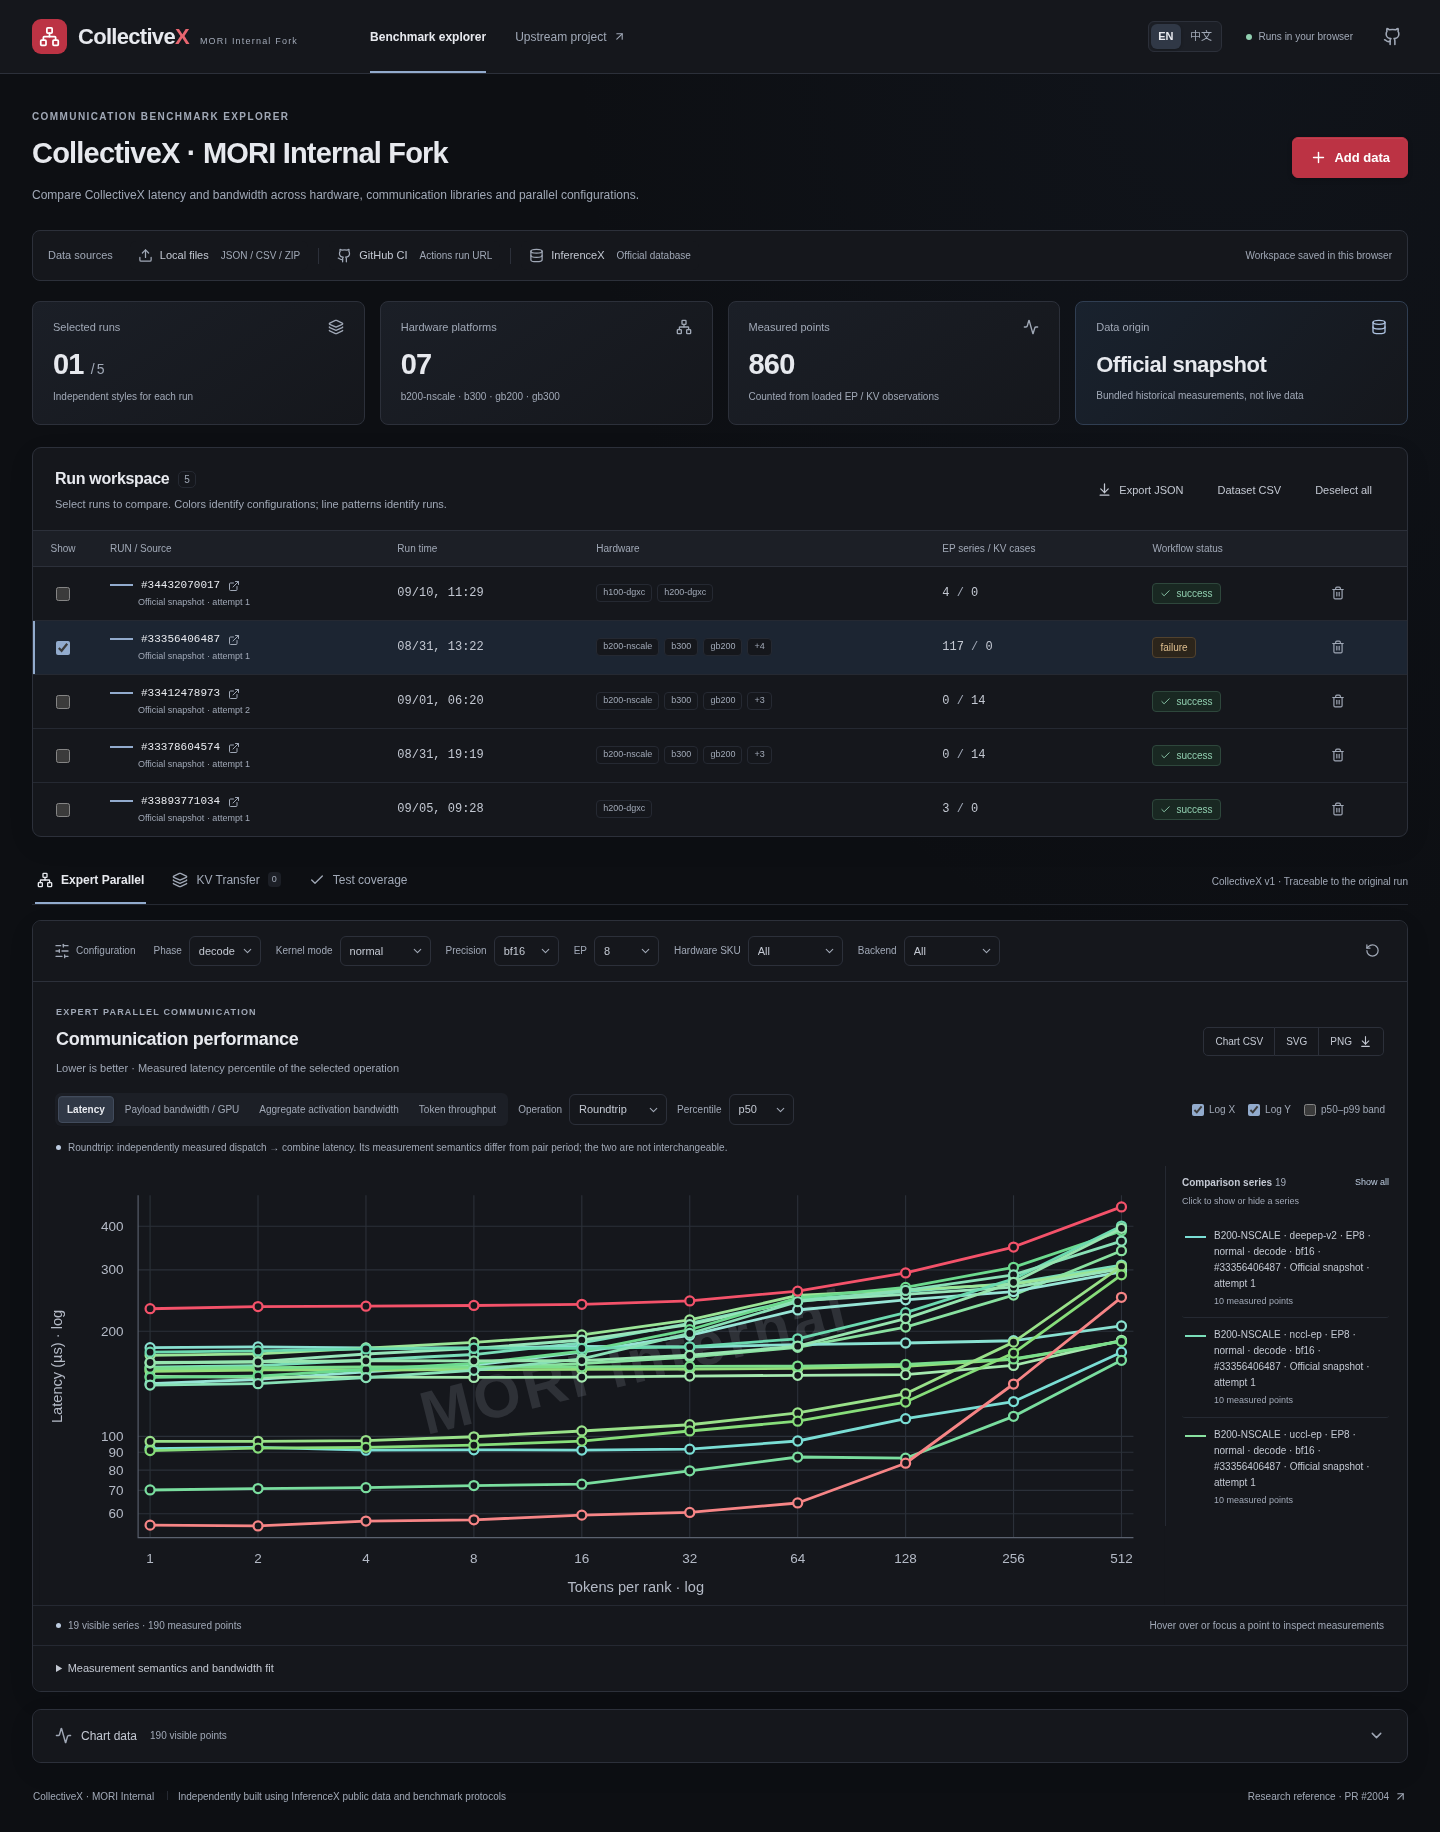
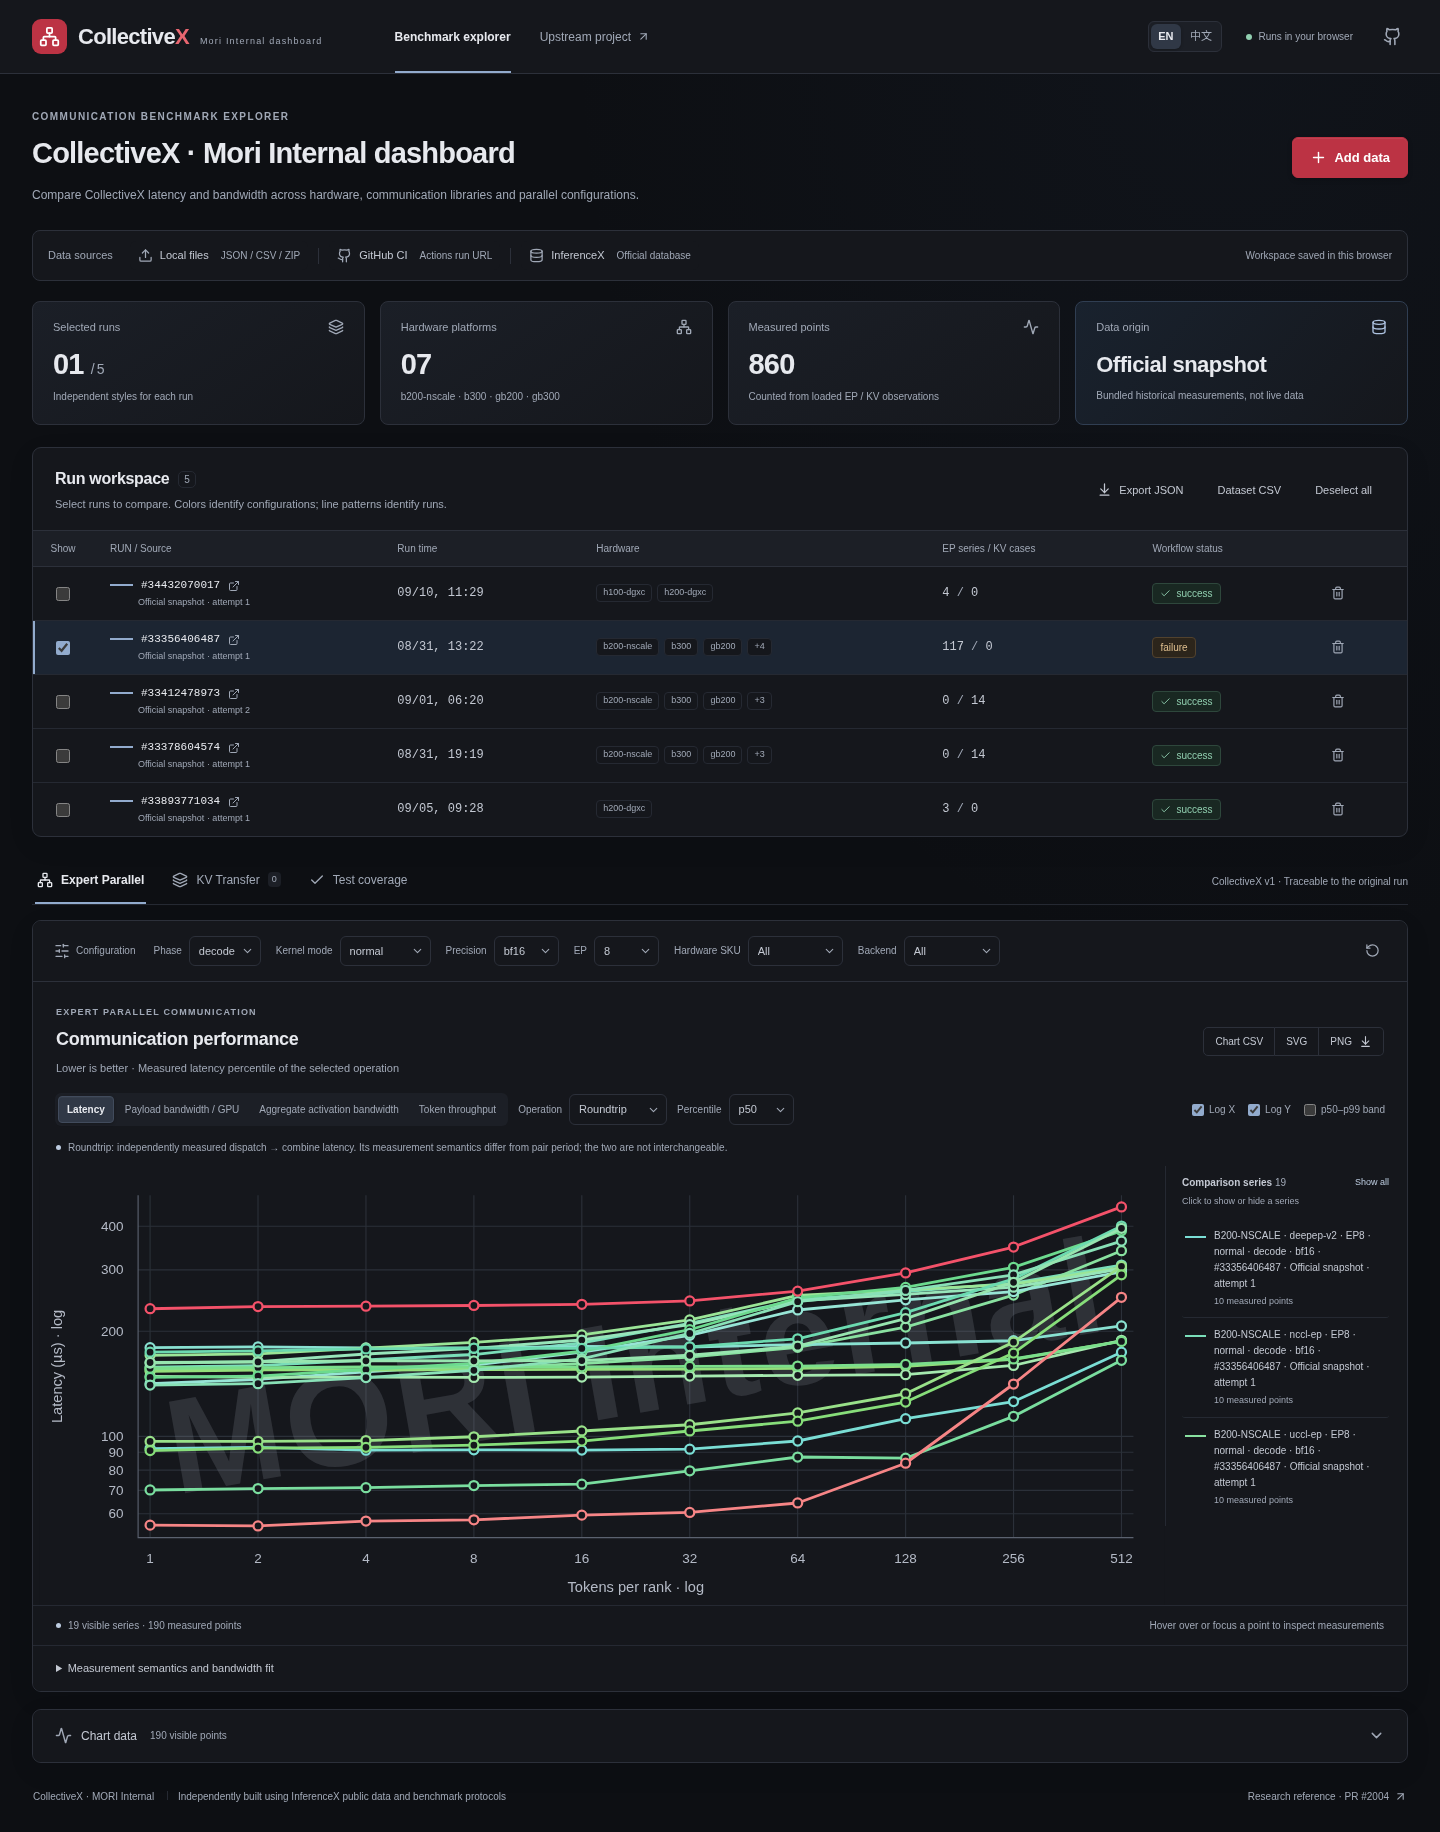
Enlarge the chart watermark and update the dashboard title
中文：MORI Internal 水印扩大至接近整个绘图区，页面、浏览器与 README 标题统一为 CollectiveX · Mori Internal dashboard。验证：64 项单元测试、14 项浏览器测试、生产构建和水印边界检查通过。

Changed region(s): [[0.125, 0.6845, 0.7812, 0.809], [0.1562, 0.0622, 0.3438, 0.0933], [0.3125, 0.0, 0.3438, 0.0311]]

diff --git a/src/App.tsx b/src/App.tsx
@@ -30,7 +30,11 @@ import type {
   Series,
 } from "./model";
 import { METRICS, OPERATIONS } from "./model";
-import { INTERNAL_FORK_TITLE, INTERNAL_WATERMARK } from "./branding";
+import {
+  DASHBOARD_TITLE,
+  INTERNAL_EDITION,
+  INTERNAL_WATERMARK,
+} from "./branding";
 import {
   PerformanceChart,
   chartColor,
@@ -470,7 +474,7 @@ export default function App() {
           </span>
           <span>
             Collective<span className="brand-x">X</span>
-            <small>{INTERNAL_WATERMARK} Fork</small>
+            <small>{INTERNAL_EDITION}</small>
           </span>
         </a>
         <nav className="header-nav">
@@ -505,7 +509,7 @@ export default function App() {
         <div className="page-heading">
           <div>
             <p className="eyebrow">COMMUNICATION BENCHMARK EXPLORER</p>
-            <h1>{t(INTERNAL_FORK_TITLE)}</h1>
+            <h1>{t(DASHBOARD_TITLE)}</h1>
             <p className="subtitle">
               {t(
                 "对比 CollectiveX 延迟与带宽，探索不同硬件、通信库和并行配置的性能边界。",

diff --git a/src/i18n.ts b/src/i18n.ts
@@ -234,7 +234,8 @@ export const ENGLISH: Record<string, string> = {
   "Burst 延迟 p50（ms）": "Burst latency p50 (ms)",
   "每个 ISL 的最高带宽（GB/s）": "Best bandwidth at each ISL (GB/s)",
   "带宽 / batch-1 带宽（倍）": "Bandwidth / batch-1 bandwidth (×)",
-  "CollectiveX · MORI 内部 Fork": "CollectiveX · MORI Internal Fork",
+  "CollectiveX · Mori Internal dashboard":
+    "CollectiveX · Mori Internal dashboard",
   "MORI 内部 fork 的 CollectiveX 通信性能实验台。导入 InferenceX、GitHub Actions 和本地数据，对比 GPU 通信延迟与带宽。":
     "MORI internal fork of the CollectiveX communication benchmark explorer. Import InferenceX, GitHub Actions and local data to compare GPU communication latency and bandwidth.",
   "显示 {origin} {run}": "Show {origin} {run}",

diff --git a/src/chart.tsx b/src/chart.tsx
@@ -233,13 +233,15 @@ export function PerformanceChart({
           className="chart-watermark"
           x={(MARGIN.left + RIGHT) / 2}
           y={(MARGIN.top + BOTTOM) / 2}
-          transform={`rotate(-14 ${(MARGIN.left + RIGHT) / 2} ${(MARGIN.top + BOTTOM) / 2})`}
+          transform={`rotate(-10 ${(MARGIN.left + RIGHT) / 2} ${(MARGIN.top + BOTTOM) / 2})`}
           textAnchor="middle"
-          dominantBaseline="middle"
+          dominantBaseline="central"
           fill={CHART_THEME.text}
           fillOpacity="0.16"
           fontFamily="Arial, sans-serif"
-          fontSize="54"
+          fontSize="120"
+          textLength={RIGHT - MARGIN.left - 40}
+          lengthAdjust="spacingAndGlyphs"
           fontWeight="700"
           letterSpacing="3"
           pointerEvents="none"

diff --git a/src/i18n-react.tsx b/src/i18n-react.tsx
@@ -16,7 +16,7 @@ import {
   type TranslationParams,
 } from "./i18n";
 
-import { INTERNAL_FORK_TITLE } from "./branding";
+import { DASHBOARD_TITLE } from "./branding";
 
 const LanguageContext = createContext({
   language: "en" as Language,
@@ -26,7 +26,7 @@ export function LanguageProvider({ children }: { children: ReactNode }) {
   const [language, setLanguage] = useState<Language>(readLanguage);
   useEffect(() => {
     document.documentElement.lang = language === "en" ? "en" : "zh-CN";
-    document.title = translate(INTERNAL_FORK_TITLE, language);
+    document.title = translate(DASHBOARD_TITLE, language);
     document
       .querySelector('meta[name="description"]')
       ?.setAttribute(

diff --git a/index.html b/index.html
@@ -8,7 +8,7 @@
       name="description"
       content="MORI internal fork of the CollectiveX communication benchmark explorer. Import InferenceX, GitHub Actions and local data to compare GPU communication latency and bandwidth."
     />
-    <title>CollectiveX · MORI Internal Fork</title>
+    <title>CollectiveX · Mori Internal dashboard</title>
     <link rel="icon" type="image/svg+xml" href="./favicon.svg" />
   </head>
   <body>

diff --git a/src/branding.ts b/src/branding.ts
@@ -1,3 +1,4 @@
 /** Keep the image watermark verbatim in every locale. */
 export const INTERNAL_WATERMARK = "MORI Internal";
-export const INTERNAL_FORK_TITLE = "CollectiveX · MORI Internal Fork";
+export const INTERNAL_EDITION = "Mori Internal dashboard";
+export const DASHBOARD_TITLE = `CollectiveX · ${INTERNAL_EDITION}`;

diff --git a/docs/verification.md b/docs/verification.md
@@ -52,3 +52,8 @@
 ## 内部 Fork 标识与图片水印
 
 2026-09-11：页面标题、浏览器标题与 README 标明 MORI 内部 fork；图表使用原生 SVG 文本绘制固定英文 `MORI Internal` 水印，置于数据曲线下层且不截获鼠标事件。SVG/PNG 导出包含同一水印。新增浏览器验证对比实际 PNG、带水印 SVG 和移除水印后的 SVG，检查水印区域的像素差异，避免仅验证网页文字存在。原有 13 项浏览器用例与新增水印用例通过，单元测试仍为 64 项；桌面和 390px 窄屏实测正常。临时预览服务在检查结束后关闭。
+
+
+## 加大水印与标题调整
+
+2026-09-11：标题统一为用户指定的 `CollectiveX · Mori Internal dashboard`，中英文界面保留同一产品名称。水印字体从 54 增至 120，沿接近整条绘图对角线展开；实际边界宽度约 854 / 884（96.7%），且全部处于绘图区内，未侵入坐标轴。SVG/PNG 像素验证继续通过，完整 64 项单元测试、14 项浏览器测试及构建通过；390px 页面没有横向溢出。README 仍不嵌入图片，测试预览服务已关闭。

diff --git a/AGENTS.md b/AGENTS.md
@@ -14,7 +14,7 @@ This is a frontend-only Vite + React + TypeScript application. Do not introduce 
 - `src/SourcesPanel.tsx`, `src/sources.ts`: import controls, official API calls, GitHub run/artifact selection, and network errors.
 - `src/model.ts`, `src/importers.ts`, `src/export.ts`: normalized data contracts, file parsing, and round-trip Dataset CSV.
 - `src/metrics.ts`, `src/chart.tsx`: metric calculations, KV comparisons, SVG rendering, and image export.
-- `src/branding.ts`: internal-fork identity. Keep the `MORI Internal` watermark embedded in chart SVGs and PNG exports; do not translate the watermark.
+- `src/branding.ts`: dashboard identity. Keep the exact title `CollectiveX · Mori Internal dashboard` in both locales, and the `MORI Internal` watermark embedded in chart SVGs and PNG exports; do not translate the watermark.
 - `src/i18n.ts`, `src/i18n-react.tsx`: translation catalog, localized diagnostics, and language preferences.
 - `src/styles.css`, `src/theme.ts`: semantic UI colors and concrete SVG/PNG colors. Keep both aligned with the AMD-inspired dark theme.
 - `src/storage.ts`: IndexedDB workspace persistence.

diff --git a/README.md b/README.md
@@ -1,4 +1,4 @@
-# CollectiveX Dashboard — MORI Internal Fork
+# CollectiveX · Mori Internal dashboard
 
 [**Open the dashboard**](https://duyi-wang.github.io/CollectiveXDashboard/) · [GitHub repository](https://github.com/Duyi-Wang/CollectiveXDashboard) · [Build and deployment](https://github.com/Duyi-Wang/CollectiveXDashboard/actions/workflows/ci.yml)
 
